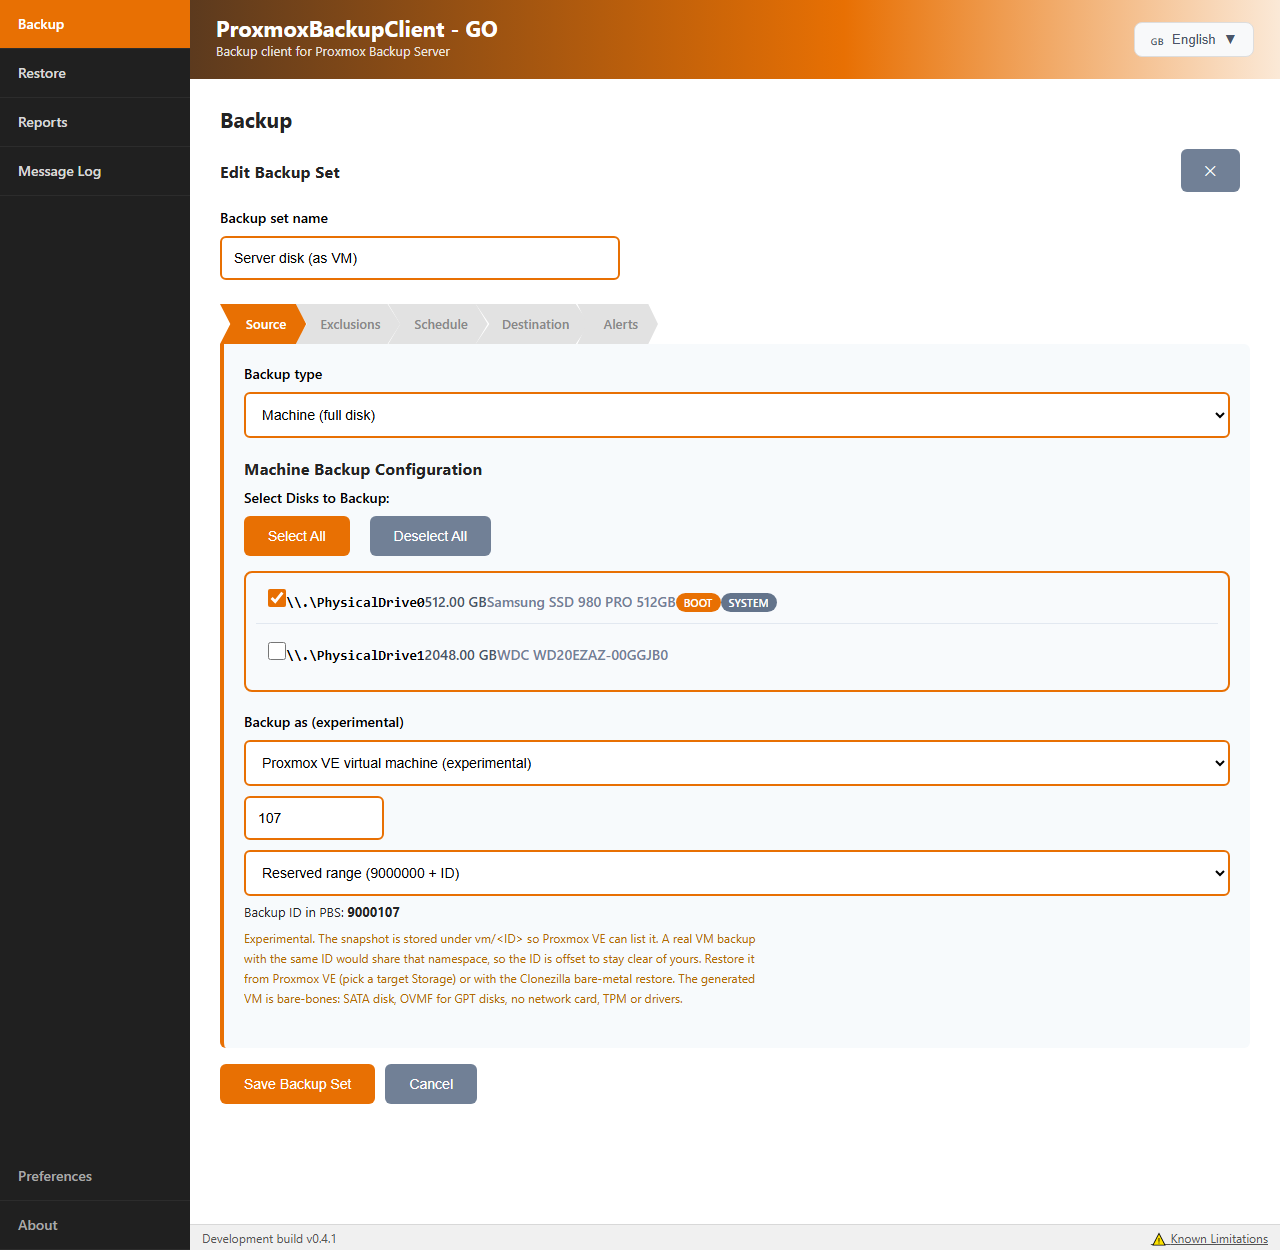
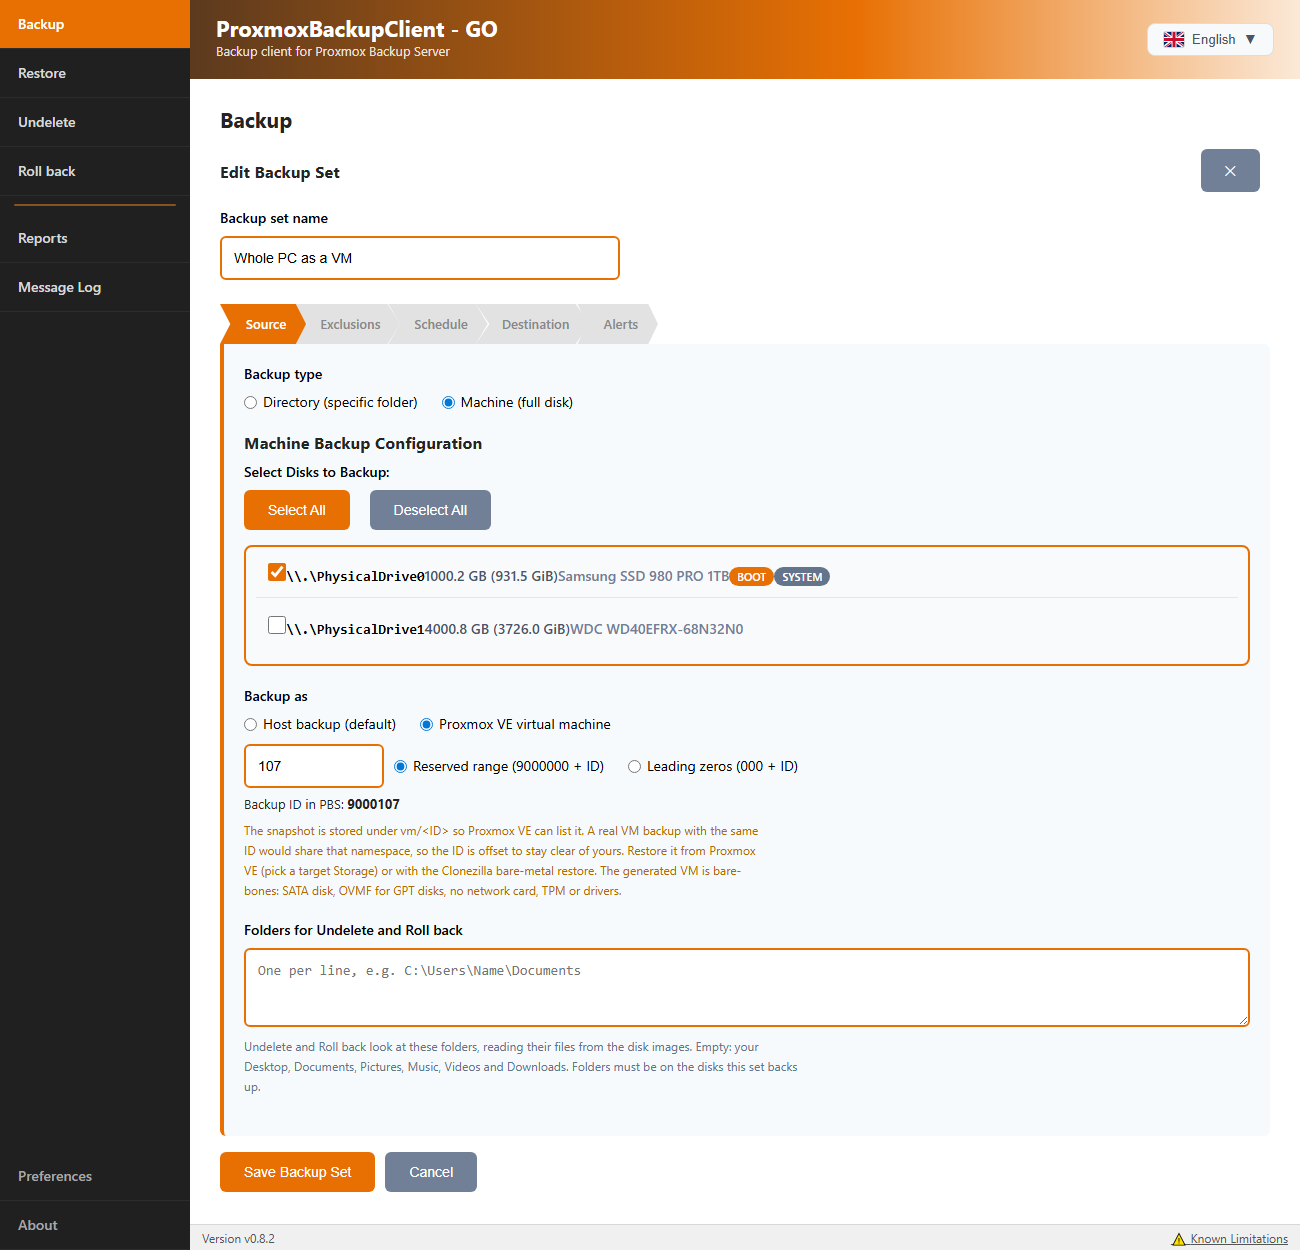
Docs: retake the out-of-date screenshots
The 20 GUI screenshots from late September and early October showed the
old side menu, cards without the More menu, a BETA banner on Restore and
the old Preferences tabs. Retaken from the current frontend with the UI
harness (stand-in bindings, one consistent home setup: two servers, five
Backup Sets, October 2026), same file names and sizes so every link keeps
working. gui-restore-progress now shows the tree with the restore running
(the card sits above it); gui-preferences-advanced shows the Backup
Options tab, where the parallel restore option now lives (README caption
updated). nimbus-*.png (upstream's) and gui-backup-progress.png (already
current) unchanged.

TODO: the screenshot item is done; it is replaced by the app text oddities
seen in the shots (raw "success" status, English restore report names, no
thousands separators, the disk picker's run-together English text, and
others).

Claude-Session: https://claude.ai/code/session_01JSSBMF6hRk92jsHCMKgDRx

diff --git a/TODO.md b/TODO.md
@@ -64,7 +64,7 @@ What is still open, as of 2026-10-13. Finished work is in [CHANGELOG.md](CHANGEL
 - [ ] Native-speaker review of the machine-translated strings (the 17 languages other than English and French), the encryption texts first.
 - [ ] The 12 translated READMEs were regenerated from the English one on 2026-10-13 (condensed, machine-translated): keep them in step when the English README changes, and have native speakers look them over.
 - [ ] `MachineBackupConfig` (machine backup settings) has hard-coded English labels; move them to the translations.
-- [ ] Screenshots in `docs/screenshots` date from late September (old side menu, no More menu or VSS badge, a BETA banner on Restore, the old Preferences tabs); only `gui-backup-progress.png` is current. Retake them with the UI harness or a real run. The `nimbus-*.png` files are upstream's.
+- [ ] App text seen while retaking the screenshots (2026-10-13): Reports shows the status as raw "success" in every language; restore reports are named "Restore of ..." in English; report numbers have no thousands separators ("181912"); the disk picker runs path, size and model together and is English only; the server test message names the server's ID, not its name; the server description box uses a monospace font; some English help texts (the parallel restore and read-ahead options, the theme preview) contain dashes.
 
 ## Command-line tools
 

diff --git a/README.md b/README.md
@@ -272,7 +272,7 @@ The first three accept `-keyfile` and `-keyfile-passphrase` for encrypted snapsh
 <td width="33%">
 
 [<img src="docs/screenshots/gui-preferences-advanced.png" width="280">](docs/screenshots/gui-preferences-advanced.png)
-**Advanced options**: explained honestly: parallel restore extraction is experimental and measured *slower* on our own test hardware
+**Backup options**: explained honestly: parallel restore extraction is experimental and measured *slower* on our own test hardware
 
 </td>
 </tr>
